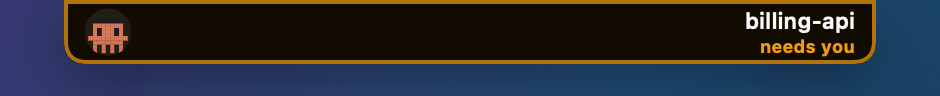
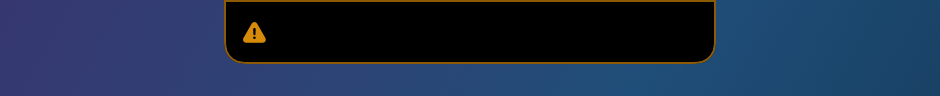
feat(island): make agent signals quieter and keep checkmark for 3s

diff --git a/Sources/Spectrum/SignalView.swift b/Sources/Spectrum/SignalView.swift
@@ -1,88 +1,63 @@
 import SpectrumCore
 import SwiftUI
 
-/// The island calling for the user: a pulsing request, or a brief checkmark.
+/// The island calling for the user, kept deliberately quiet: small icons on the notch ears,
+/// plus a blinking outline while an agent waits.
 struct SignalView: View {
     let model: NotchModel
 
     var body: some View {
         switch model.signal {
         case .needsYou(let session):
-            NeedsYouView(session: session, style: model.settings.characters)
+            NeedsYouView(notch: model.geometry.notch.size, sessionID: session.id)
                 .contentShape(Rectangle())
                 .onTapGesture(perform: model.answerAttention)
         case .done(let session):
-            ears(notch: model.geometry.notch.width) {
+            Self.ears(notch: model.geometry.notch.size) {
                 Image(systemName: "checkmark.circle.fill")
-                    .font(.system(size: 17, weight: .semibold))
-                    .foregroundStyle(Color(hex: 0x4ADE80))
+                    .font(.system(size: 12, weight: .semibold))
+                    .foregroundStyle(Self.green.opacity(0.85))
                     .symbolEffect(.bounce, value: session.id)
-            } right: {
-                name(session.projectName, detail: "done")
             }
         case nil:
             Color.clear
         }
     }
 
-    private func ears<Left: View, Right: View>(
-        notch: CGFloat, @ViewBuilder left: () -> Left, @ViewBuilder right: () -> Right
+    static let green = Color(hex: 0x4ADE80)
+    static let amber = Color(hex: 0xF59E0B)
+
+    /// A small icon in the left ear; the right ear stays empty so the hardware notch reads as one
+    /// quiet pill.
+    fileprivate static func ears<Icon: View>(
+        notch: CGSize, @ViewBuilder icon: () -> Icon
     ) -> some View {
         HStack(spacing: 0) {
-            left().frame(maxWidth: .infinity, alignment: .leading)
-            Spacer().frame(width: notch)
-            right().frame(maxWidth: .infinity, alignment: .trailing)
+            icon().frame(width: NotchLayout.signalEarWidth)
+            Spacer().frame(width: notch.width)
+            Spacer().frame(width: NotchLayout.signalEarWidth)
         }
-        .padding(.horizontal, 12)
-        .frame(height: model.geometry.notch.height)
+        .frame(height: notch.height)
     }
 
-    private func name(_ text: String, detail: String) -> some View {
-        VStack(alignment: .trailing, spacing: 0) {
-            Text(text)
-                .font(.system(size: 11, weight: .semibold))
-                .foregroundStyle(.white)
-            Text(detail)
-                .font(.system(size: 9, weight: .medium))
-                .foregroundStyle(.white.opacity(0.55))
-        }
-        .lineLimit(1)
-    }
-
-    /// Persistent until answered: the island breathes an orange glow and the agent waves.
+    /// Persistent until answered: a warning icon and a thin outline that blink.
     private struct NeedsYouView: View {
-        let session: AgentSession
-        let style: SpectrumSettings.CharacterStyle
+        let notch: CGSize
+        let sessionID: String
 
         var body: some View {
             TimelineView(.animation(minimumInterval: 1.0 / 20)) { timeline in
                 let phase = timeline.date.timeIntervalSinceReferenceDate
-                let pulse = 0.5 + 0.5 * sin(phase * 4)
-                HStack(spacing: 8) {
-                    AgentAvatar(session: session, style: style)
-                        .scaleEffect(0.75 + 0.06 * pulse)
-                        .frame(width: 24, height: 24)
-                    Spacer(minLength: 0)
-                    VStack(alignment: .trailing, spacing: 0) {
-                        Text(session.projectName)
-                            .font(.system(size: 11, weight: .semibold))
-                            .foregroundStyle(.white)
-                        Text("needs you")
-                            .font(.system(size: 9, weight: .bold))
-                            .foregroundStyle(Color(hex: 0xF59E0B))
-                    }
-                    .lineLimit(1)
+                let blink = 0.5 + 0.5 * sin(phase * 4)
+                SignalView.ears(notch: notch) {
+                    Image(systemName: "exclamationmark.triangle.fill")
+                        .font(.system(size: 11, weight: .semibold))
+                        .foregroundStyle(SignalView.amber.opacity(0.5 + 0.4 * blink))
                 }
-                .padding(.horizontal, 10)
-                .frame(maxHeight: .infinity)
                 .overlay(
                     UnevenRoundedRectangle(bottomLeadingRadius: 10, bottomTrailingRadius: 10)
                         .strokeBorder(
-                            Color(hex: 0xF59E0B).opacity(0.35 + 0.6 * pulse), lineWidth: 2)
-                )
-                .background(
-                    UnevenRoundedRectangle(bottomLeadingRadius: 10, bottomTrailingRadius: 10)
-                        .fill(Color(hex: 0xF59E0B).opacity(0.12 * pulse))
+                            SignalView.amber.opacity(0.15 + 0.45 * blink), lineWidth: 1)
                 )
             }
         }

diff --git a/Sources/SpectrumCore/AttentionTracker.swift b/Sources/SpectrumCore/AttentionTracker.swift
@@ -2,9 +2,9 @@ import Foundation
 
 /// Decides when the island should call for the user.
 ///
-/// A Claude Code agent asking for permission or an answer pulses the island until the user
+/// A Claude Code agent asking for permission or an answer blinks the island until the user
 /// opens the panel or the agent moves on. A finished task, or a chat Claude just answered, only
-/// flashes a checkmark for a moment.
+/// shows a checkmark for a few seconds.
 public struct AttentionTracker: Sendable {
     public enum Signal: Equatable, Sendable {
         case needsYou(AgentSession)
@@ -18,7 +18,7 @@ public struct AttentionTracker: Sendable {
     private var acknowledged: Set<String> = []
     private var finished: (session: AgentSession, until: Date)?
 
-    public init(doneDuration: TimeInterval = 1.6) {
+    public init(doneDuration: TimeInterval = 3) {
         self.doneDuration = doneDuration
     }
 

diff --git a/Tests/SpectrumCoreTests/AttentionTests.swift b/Tests/SpectrumCoreTests/AttentionTests.swift
@@ -12,13 +12,13 @@ private func session(
         id: id, kind: kind, cwd: nil, activity: activity, startedAt: start, updatedAt: start)
 }
 
-@Test func finishedTaskFlashesBriefly() {
-    var tracker = AttentionTracker(doneDuration: 1.6)
+@Test func finishedTaskShowsForThreeSeconds() {
+    var tracker = AttentionTracker()
     tracker.update([session("a", .thinking)], now: start)
     tracker.update([session("a", .idle)], now: start.addingTimeInterval(10))
 
-    #expect(tracker.signal(at: start.addingTimeInterval(11)) == .done(session("a", .idle)))
-    #expect(tracker.signal(at: start.addingTimeInterval(12)) == nil)
+    #expect(tracker.signal(at: start.addingTimeInterval(12.5)) == .done(session("a", .idle)))
+    #expect(tracker.signal(at: start.addingTimeInterval(13.1)) == nil)
 }
 
 @Test func chatAnswerCountsAsDone() {

diff --git a/Sources/Spectrum/NotchModel.swift b/Sources/Spectrum/NotchModel.swift
@@ -175,8 +175,8 @@ final class NotchModel {
 enum NotchLayout {
     static let expandedSize = CGSize(width: 440, height: 128)
     static let agentsSize = CGSize(width: 680, height: 340)
-    /// Each ear is wide enough for an agent's name next to the hardware notch.
-    static let signalEarWidth: CGFloat = 110
+    /// Signals stay quiet: each ear only fits a small status icon next to the hardware notch.
+    static let signalEarWidth: CGFloat = 30
 
     static func size(for mode: NotchMode, geometry: NotchGeometry) -> CGSize {
         let notch = geometry.notch.size

diff --git a/Sources/Spectrum/NotchRootView.swift b/Sources/Spectrum/NotchRootView.swift
@@ -22,7 +22,9 @@ struct NotchRootView: View {
         .frame(width: size.width, height: size.height)
         .clipShape(shape)
         .shadow(
-            color: .black.opacity(mode == .hidden || mode == .compact ? 0 : 0.35), radius: 18, y: 8
+            color: .black.opacity(
+                [.hidden, .compact, .attention, .done].contains(mode) ? 0 : 0.35),
+            radius: 18, y: 8
         )
         // Without a hardware notch the hidden island would be a visible black pill.
         .opacity(mode == .hidden && !model.geometry.hasHardwareNotch ? 0 : 1)

diff --git a/Sources/Spectrum/SettingsView.swift b/Sources/Spectrum/SettingsView.swift
@@ -12,7 +12,7 @@ struct SettingsView: View {
                     "Trackpad haptics when the island opens and closes",
                     isOn: $model.settings.haptics)
                 Toggle(
-                    "Pulse when an agent needs permission or an answer",
+                    "Blink when an agent needs permission or an answer",
                     isOn: $model.settings.alertWhenNeeded)
                 Toggle(
                     "Flash a checkmark when a task finishes", isOn: $model.settings.flashWhenDone)

diff --git a/Sources/SpectrumCore/NotchMode.swift b/Sources/SpectrumCore/NotchMode.swift
@@ -8,7 +8,7 @@ public enum NotchMode: Hashable, Sendable {
     case expanded
     /// Agents panel opened with a double tap of ⌘.
     case agents
-    /// An agent needs permission or an answer: the island pulses until the user looks.
+    /// An agent needs permission or an answer: the island blinks until the user looks.
     case attention
     /// A task just finished: a checkmark for a moment.
     case done

diff --git a/README.md b/README.md
@@ -56,8 +56,9 @@ desks, talk in the meeting room and doze on the sofa.
 
 ### Signals
 
-The island calls you only when it matters. When an agent needs permission or an answer it pulses
-until you look; when a task finishes it flashes a checkmark for a moment and goes away.
+The island calls you only when it matters, and quietly. When an agent needs permission or an
+answer a small warning icon and a thin outline blink until you look; when a task finishes a small
+checkmark shows for three seconds and goes away.
 
 <img src="docs/screenshots/attention.png" width="470" alt="An agent needs you">
 <img src="docs/screenshots/done.png" width="470" alt="A task finished">
@@ -110,7 +111,7 @@ The gear in the agents panel opens Settings, installs or removes the hooks and q
 | Setting | Default |
 | --- | --- |
 | Show music while it plays | On |
-| Pulse when an agent needs permission or an answer | On |
+| Blink when an agent needs permission or an answer | On |
 | Flash a checkmark when a task finishes | On |
 | Trackpad haptics when the island opens and closes | On |
 | Agents panel shortcut | Double-tap ⌘ |

diff --git a/CHANGELOG.md b/CHANGELOG.md
@@ -4,6 +4,13 @@ All notable changes to this project are documented here. The format follows
 [Keep a Changelog](https://keepachangelog.com/en/1.1.0/) and the project uses
 [Semantic Versioning](https://semver.org/).
 
+## [Unreleased]
+
+### Changed
+
+- Quieter island signals: a small warning icon with a thin blinking outline when an agent needs
+  you, and a small checkmark that stays for three seconds instead of 1.6.
+
 ## [1.0.0] - 2026-10-27
 
 First release.
